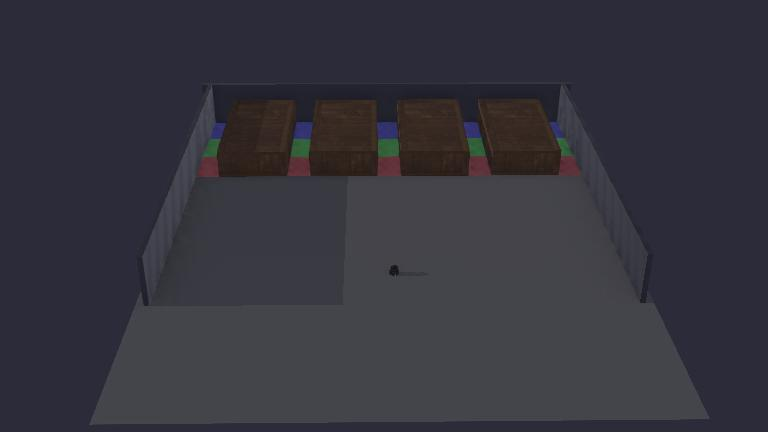
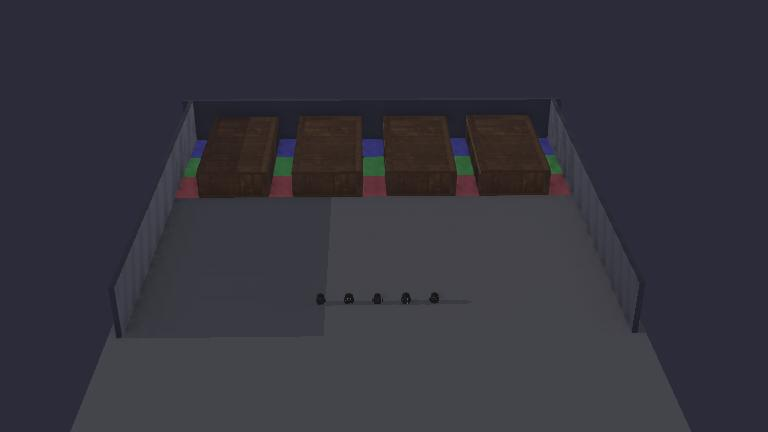
Added support for multiple robots in webot/robot code.
- Added posibilty to have the robot_id be the name from webots and have a additional start position set up.

diff --git a/src/bootstrap/robot_factory.py b/src/bootstrap/robot_factory.py
@@ -1,12 +1,25 @@
 from core.robot import Robot
 from core.robot_model import RobotModel
+from core.pose import Pose
 
 from infrastructure.webots.webots_hardware import WebotsHardware
 from infrastructure.webots.webots_motion_controller import WebotsMotionController
 from infrastructure.webots.webots_sensors_controller import WebotsSensorsController
 from infrastructure.mqtt.mqtt_robot_client import MqttRobotClient
 
+def _parse_initial_pose(custom_data: str) -> Pose:
+    """Parse 'x,y,theta' from the robot's customData field."""
+    try:
+        parts = [float(v.strip()) for v in custom_data.split(",")]
+        return Pose(x=parts[0], y=parts[1], theta=parts[2])
+    except Exception:
+        return Pose()  # fallback to (0,0,0) if not set
+
 def build_webot_robot(webots_robot):
+
+    # Robot identity
+    robot_id = webots_robot.getName()
+    initial_pose = _parse_initial_pose(webots_robot.getCustomData())
 
     # --- configuration ---
     model = RobotModel(
@@ -21,14 +34,15 @@ def build_webot_robot(webots_robot):
     hardware = WebotsHardware(webots_robot, model)
     motion = WebotsMotionController(hardware)
     sensors = WebotsSensorsController(hardware)
-    comm = MqttRobotClient("default")
+    comm = MqttRobotClient(robot_id)
 
     # --- Core robot (no Webots knowledge inside) ---
     return Robot(
         motion=motion,
         sensors=sensors,
         comm=comm,
-        model=model
+        model=model,
+        initial_pose=initial_pose
     )
 
 

diff --git a/server/test_server.py b/server/test_server.py
@@ -36,20 +36,34 @@ client.connect("localhost")
 
 client.loop_start()
 
-client.subscribe("robot/default/heartbeat")
+client.subscribe("robot/+/heartbeat")
 client.subscribe("aisle/+/request")
 
 time.sleep(5)
 
 # Send task
-print("SERVER SENDING: t1, segment: [5.0, 5.0], base: [0.0, 0.0]")
+print("SERVER SENDING: t1, segment: [6.5, -4.0], base: [0.0, 0.0]")
 client.publish(
-    "robot/default/task/assign",
+    "robot/robot_1/task/assign",
     json.dumps({
         "task_id": "t1",
         "aisle_id": "a1",
         "aisle_pos": [3, -4],
         "segment_pos": [6.5, -4],
+        "base_pos": [0.0, 0.0]
+    })
+)
+
+time.sleep(5)
+
+print("SERVER SENDING: t2, segment: [4.5, 0.0], base: [0.0, 0.0]")
+client.publish(
+    "robot/robot_5/task/assign",
+    json.dumps({
+        "task_id": "t2",
+        "aisle_id": "a1",
+        "aisle_pos": [3, 0],
+        "segment_pos": [4.5, 0],
         "base_pos": [0.0, 0.0]
     })
 )

diff --git a/src/infrastructure/mqtt/mqtt_robot_client.py b/src/infrastructure/mqtt/mqtt_robot_client.py
@@ -54,17 +54,17 @@ class MqttRobotClient(IRobotComm):
     # -------------------------
     # MQTT callbacks
     # -------------------------
-    def _on_connect(self, client, userdata, flags, rc):
-        if rc == 0:
+    def _on_connect(self, client, userdata, flags, reason_code, properties):
+        if reason_code == 0:
             self._connected = True
             self._subscribe()
             print("[MQTT] Connected successfully")
             
         else:
             self._connected = False
-            print(f"[MQTT] Connection failed (rc={rc})")
+            print(f"[MQTT] Connection failed (rc={reason_code})")
 
-    def _on_disconnect(self, client, userdata, rc):
+    def _on_disconnect(self, client, userdata, flags, reason_code, properties):
         self._connected = False
         print("[MQTT] Disconnected")
 

diff --git a/server/infrastructure/mqtt/mqtt_server_client.py b/server/infrastructure/mqtt/mqtt_server_client.py
@@ -54,17 +54,17 @@ class MqttServerClient(IServerComm):
     # -------------------------
     # MQTT callbacks
     # -------------------------
-    def _on_connect(self, client, userdata, flags, rc):
-        if rc == 0:
+    def _on_connect(self, client, userdata, flags, reason_code, properties):
+        if reason_code == 0:
             self._connected = True
             self._subscribe()
             print("[MQTT] Connected successfully")
         
         else:
             self._connected = False
-            print(f"[MQTT] Connection failed (rc={rc})")
+            print(f"[MQTT] Connection failed (rc={reason_code})")
 
-    def _on_disconnect(self, client, userdata, rc):
+    def _on_disconnect(self, client, userdata, reason_code, properties):
         self._connected = False
         print("[MQTT] Disconnected")
 

diff --git a/src/core/robot.py b/src/core/robot.py
@@ -14,13 +14,14 @@ from interfaces.sensors_controller import ISensorsController
 
 class Robot:
     
-    def __init__(self, motion, sensors : ISensorsController, comm : IRobotComm, model : RobotModel):
+    def __init__(self, motion, sensors : ISensorsController, comm : IRobotComm, model : RobotModel, initial_pose = None):
         self.motion = motion
         self.sensors = sensors
         self.comm = comm
 
-        self.pose = Pose()
+        self.pose = initial_pose or Pose()
         self.odometry = OdometryEstimator(model)
+        self.odometry.reset(initial_pose)
         self.navigator = Navigator(model)
 
         self.task_manager = TaskManager()
